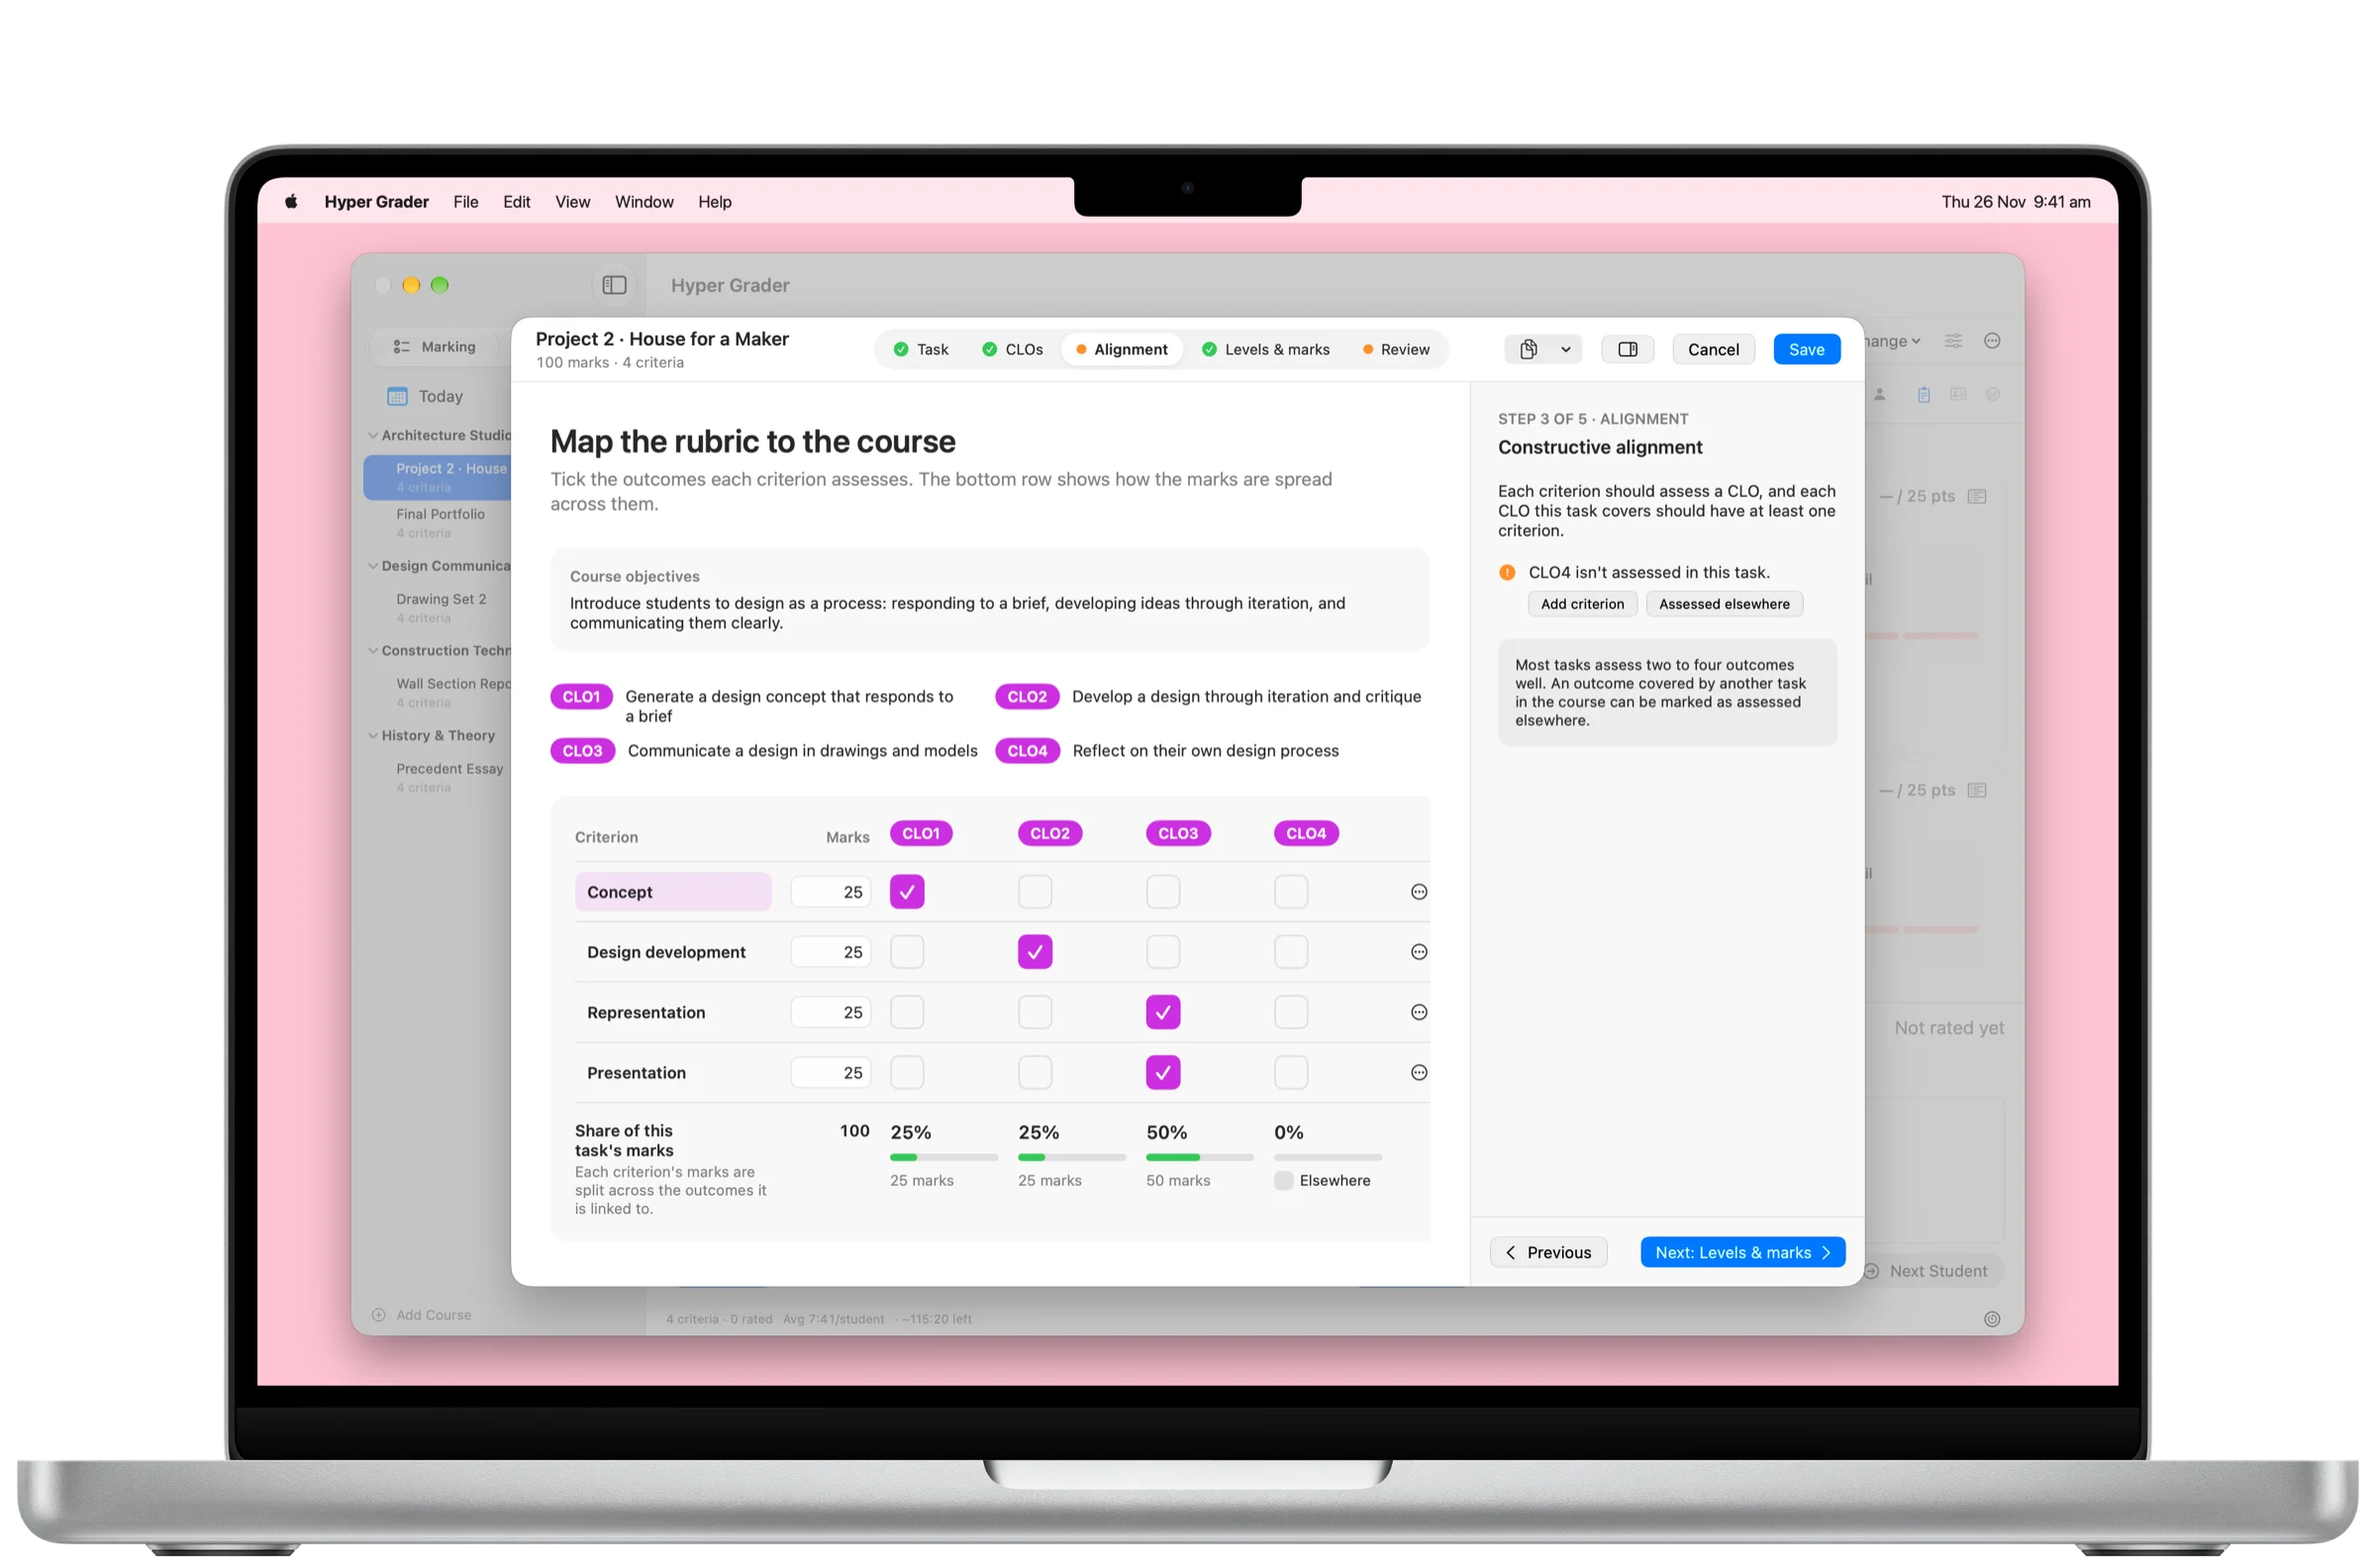
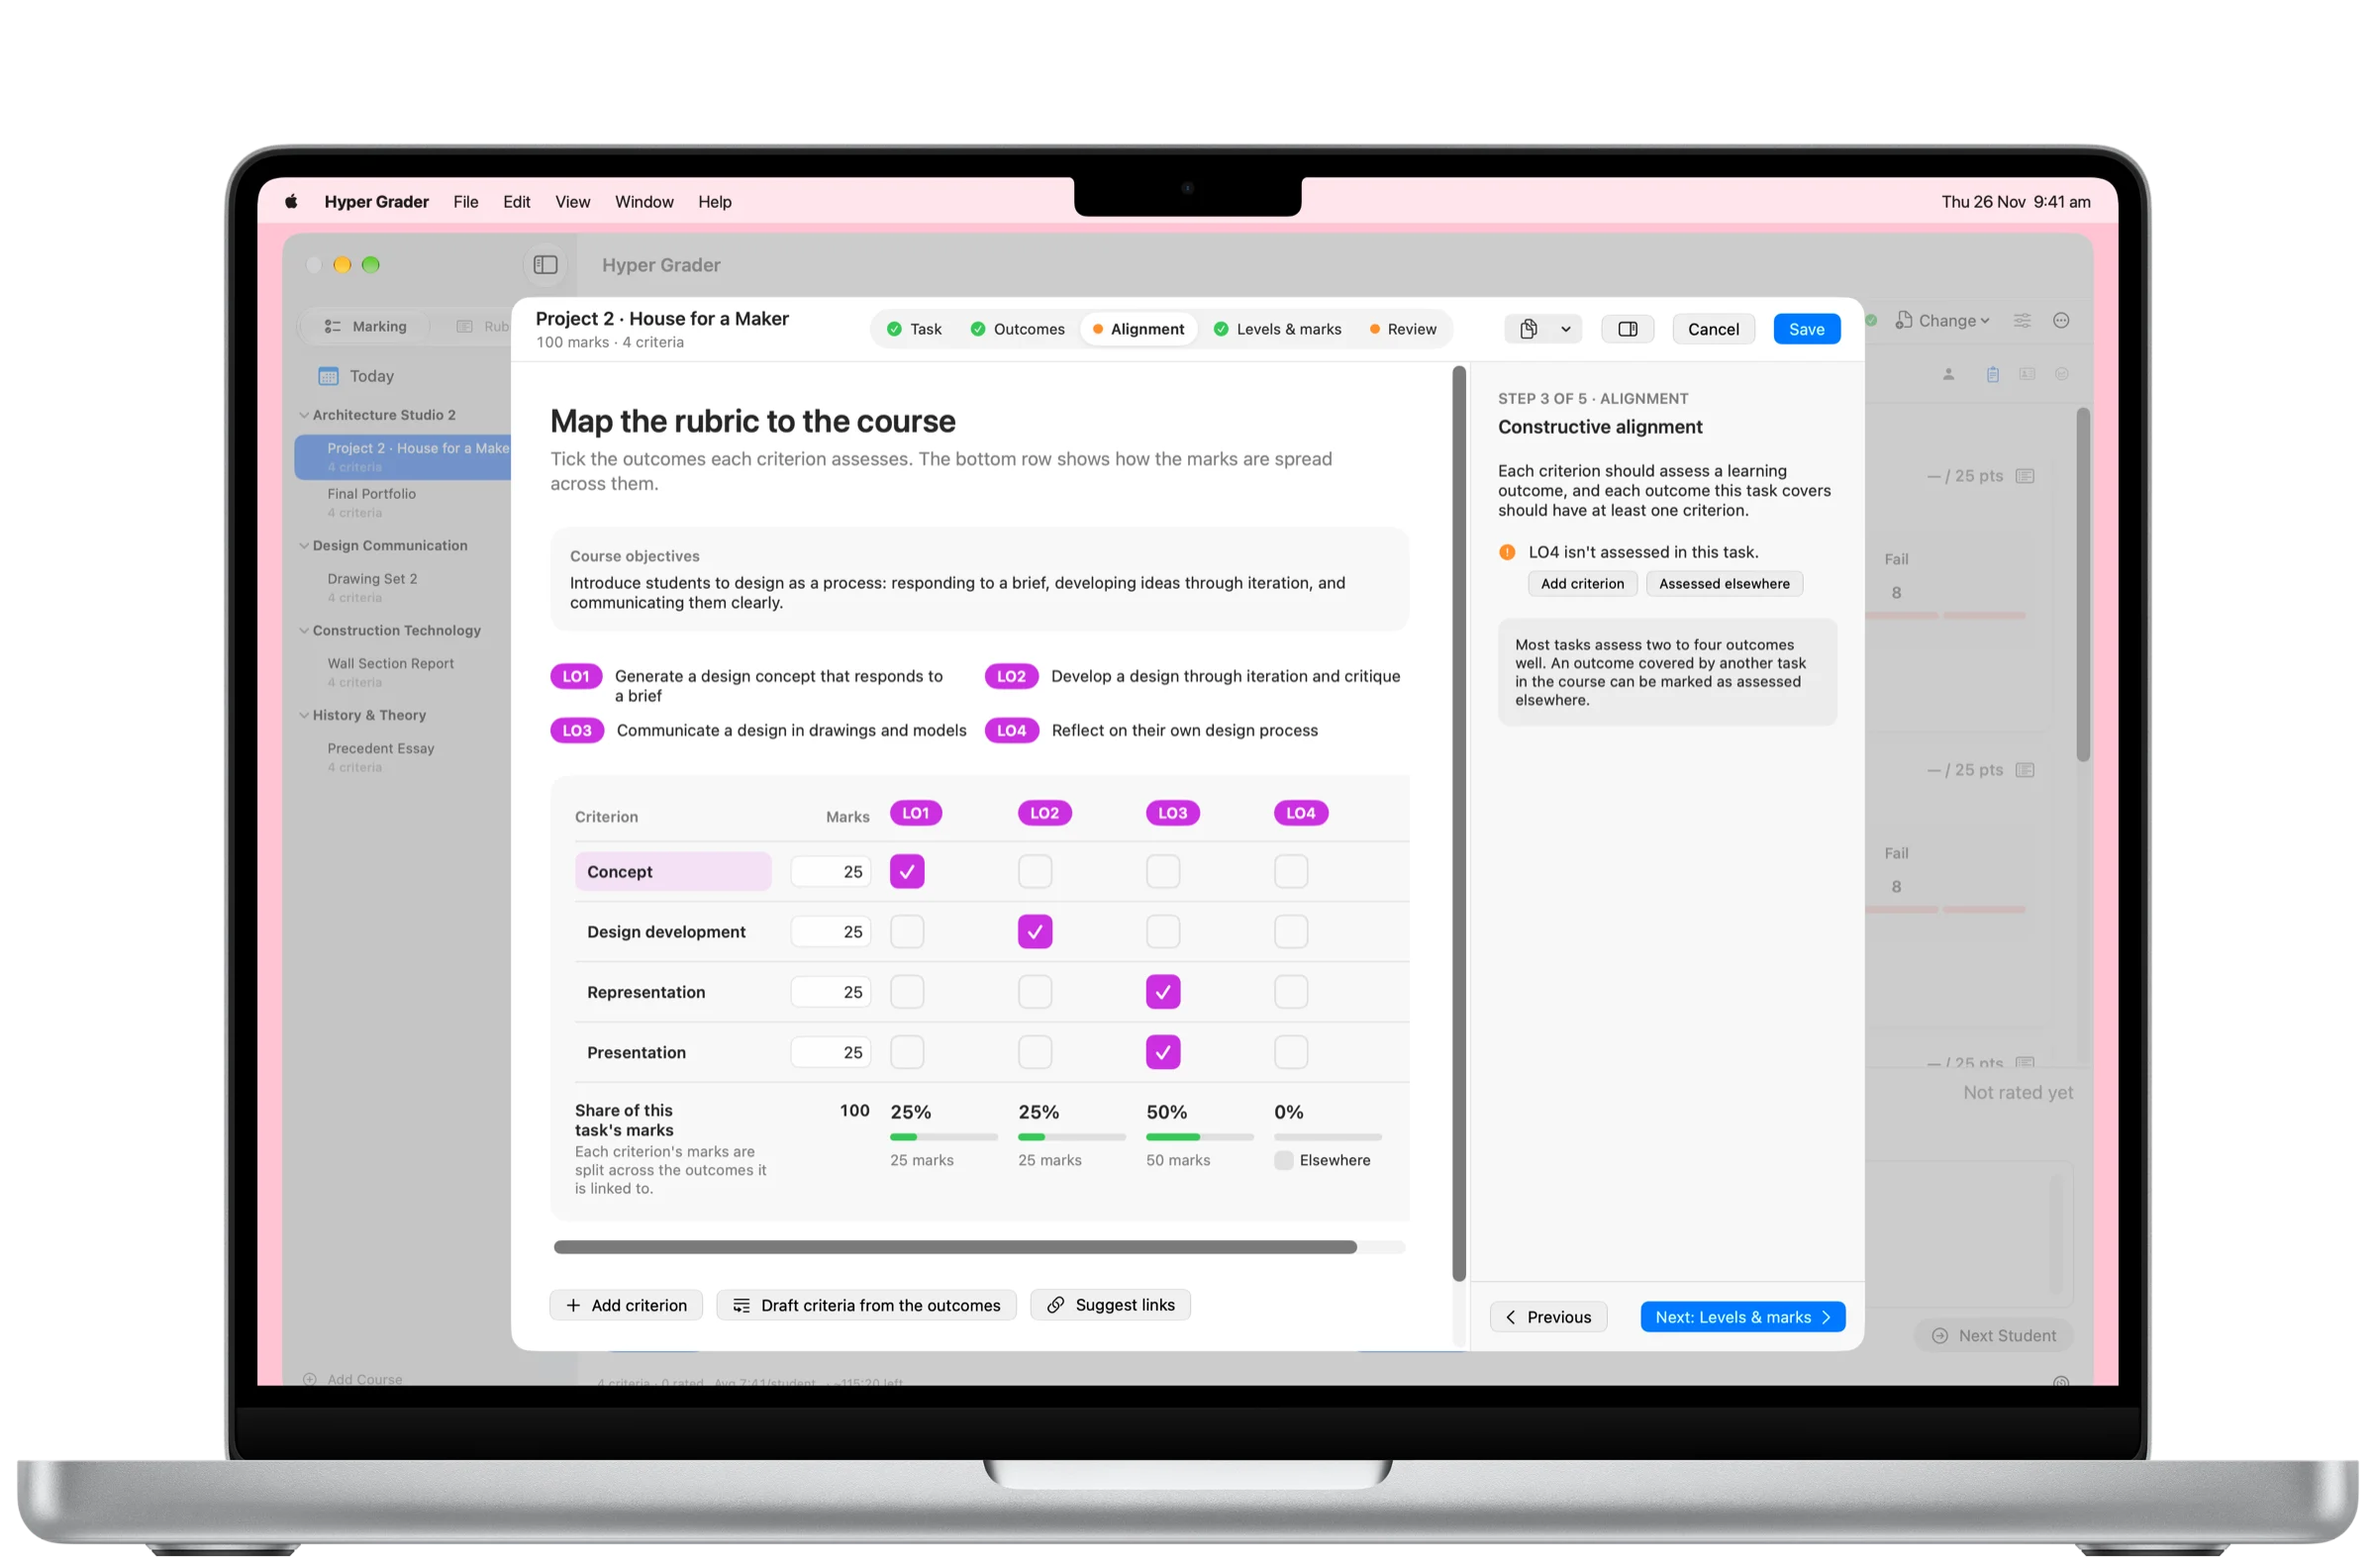
Learning outcomes, not CLOs; new rubric shots with Outcomes and LO codes

Changed region(s): [[0.0938, 0.1241, 0.9062, 0.8999], [0.4062, 0.5896, 0.4688, 0.6206]]

diff --git a/index.html b/index.html
@@ -103,25 +103,25 @@
     <p class="intro">It starts where constructive alignment starts: with your course. Five steps take you from the task to a criterion-referenced rubric, with a guide beside each one that explains what makes it good and offers fixes as you go.</p>
     <ol class="steps-row">
       <li><span>1</span><b>task</b> Type, level, weight and student hours, plus what students should be able to show.</li>
-      <li><span>2</span><b>CLOs</b> Paste the course objectives and learning outcomes from your outline.</li>
-      <li><span>3</span><b>alignment</b> Map each criterion to the CLOs it assesses, and see each CLO's share of the marks.</li>
+      <li><span>2</span><b>outcomes</b> Paste the course objectives and learning outcomes from your course outline.</li>
+      <li><span>3</span><b>alignment</b> Map each criterion to the outcomes it assesses, and see each outcome's share of the marks.</li>
       <li><span>4</span><b>levels</b> A descriptor for every grade band, High Distinction to Fail.</li>
       <li><span>5</span><b>review</b> Coverage, Bloom's taxonomy and policy, checked before you mark.</li>
     </ol>
     <figure class="device wide">
-      <img src="images/mac-rubric-alignment.webp" width="2400" height="1579" loading="lazy" alt="The rubric builder's Alignment step: course objectives and four CLOs above a grid of criteria ticked against the CLOs they assess, with each CLO's share of the marks, and a guide panel flagging that CLO4 isn't assessed in this task.">
-      <figcaption>Step 3. CLO4 isn't assessed by any criterion, so the guide offers to add one or mark it as assessed in another task.</figcaption>
+      <img src="images/mac-rubric-alignment.webp" width="2400" height="1579" loading="lazy" alt="The rubric builder's Alignment step: course objectives and four learning outcomes above a grid of criteria ticked against the outcomes they assess, with each outcome's share of the marks, and a guide panel flagging that LO4 isn't assessed in this task.">
+      <figcaption>Step 3. LO4 isn't assessed by any criterion, so the guide offers to add one or mark it as assessed in another task.</figcaption>
     </figure>
   </div>
   <div class="grid review">
     <figure class="device">
-      <img src="images/mac-rubric-review.webp" width="2400" height="1579" loading="lazy" alt="The rubric builder's Review step: each CLO with its share of the marks and the criteria assessing it, then the quality checks, with a guide panel of remaining fixes.">
+      <img src="images/mac-rubric-review.webp" width="2400" height="1579" loading="lazy" alt="The rubric builder's Review step: each learning outcome with its share of the marks and the criteria assessing it, then the quality checks, with a guide panel of remaining fixes.">
     </figure>
     <div class="copy">
       <h3>before you mark a single piece of work</h3>
       <ul class="checks">
-        <li>Every CLO assessed here or in another task</li>
-        <li>No CLO carrying more than half the marks</li>
+        <li>Every learning outcome assessed here or in another task</li>
+        <li>No outcome carrying more than half the marks</li>
         <li>A spread of Bloom's levels, so students create and evaluate rather than only remember</li>
         <li>A descriptor for every level, describing quality rather than quantity</li>
         <li>Course weight between 5 and 60%</li>
